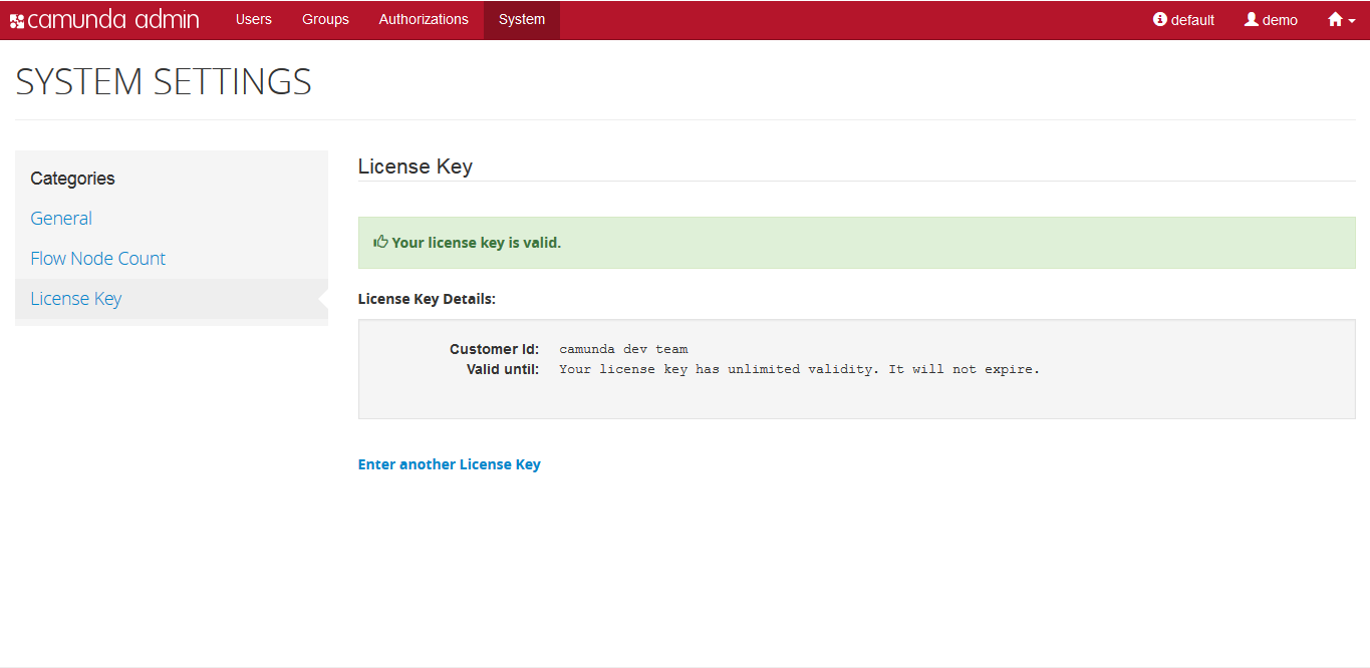
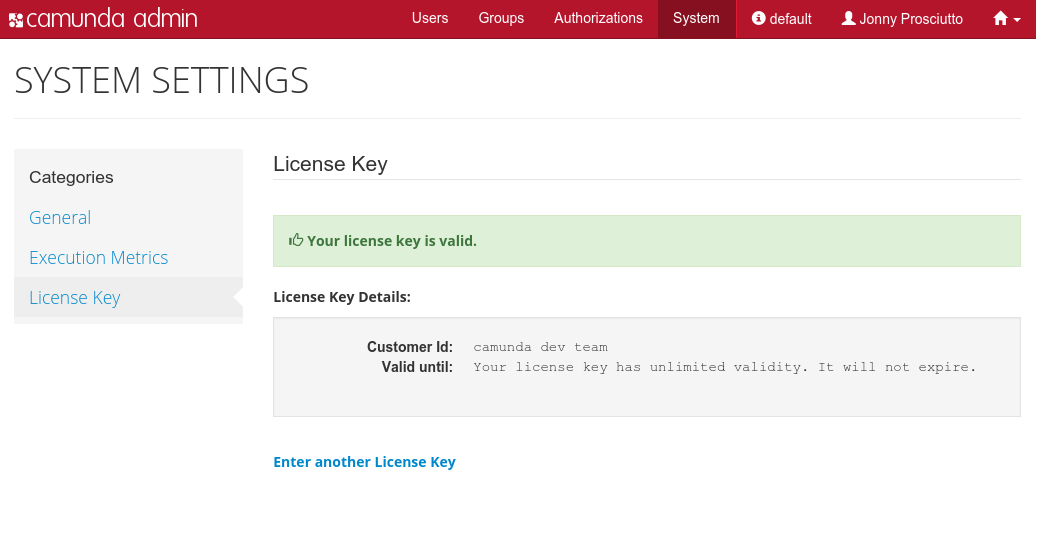
improve(admin/system): change flow nodes count to metrics
Related to CAM-5077

diff --git a/content/webapps/admin/system-management.md b/content/webapps/admin/system-management.md
@@ -13,14 +13,14 @@ menu:
 
 {{< img src="../img/admin-system-management.png" title="System Management" >}}
 
-The System Settings menu gives you some general information about the process engine and allows you to access the *Flow Node Count* and, provided that you are using the Enterprise Edition of the Camunda BPM platform, you can insert your *License Key*
+The System Settings menu gives you some general information about the process engine and allows you to access the *Execution Metrics* and, provided that you are using the Enterprise Edition of the Camunda BPM platform, you can insert your *License Key*
 
 
-# Flow Node Count
+# Execution Metrics
 
-{{< img src="../img/admin-flow-node-count.png" title="Flow Node Count" >}}
+{{< img src="../img/admin-execution-metrics.png" title="Execution Metrics" >}}
 
-The Flow Node Count menu in Admin displays an approximate number of flow nodes that have been executed by the engine within a specified time range.
+The Execution Metrics menu in Admin displays an approximate number of *Flow Nodes Instances (FNI)* and *Executed Decision Elements (EDE)* that have been processed by the engine within a specified time range.
 
 
 # Camunda License Key
